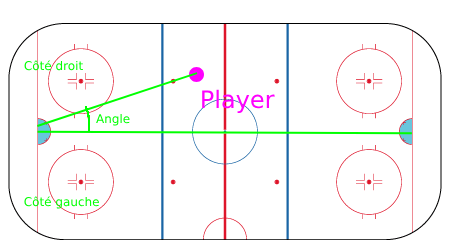
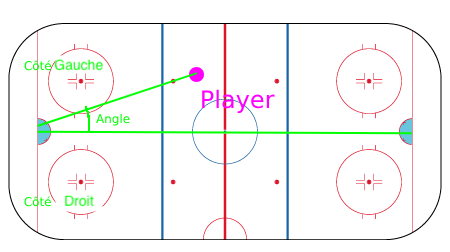
chore: add notes

Changed region(s): [[0.0933, 0.2222, 0.2489, 0.2778], [0.1244, 0.7778, 0.2489, 0.8333]]

diff --git a/NOTES-PART-2.md b/NOTES-PART-2.md
@@ -9,6 +9,16 @@
 - Est un but (0 ou 1) : Fait (colonne `is_goal`)
 - Filet vide : Fait (colonne `is_empty_net`)
 
+#### Correction goal_angle
+
+Correction de la feature `goal_angle` from -180 (left) to 180 (right).
+Les valeurs negatives correspondent à un angle à gauche du point de vue du gardien de but.
+Les valeurs positives correspondent à un angle à droite du point de vue du gardien de but.
+La valeur 0 correspond à un tir en face du gardien de but.
+Les valeurs plus grandes que 90 ou plus petites que -90 correspondent à un angle derrière le gardien de but.
+
+![player_to_goal.png](player_to_goal.png)
+
 ### Split des données
 
 J'ai ajouté une fonction `load_train_test_dataframes` pour séparer les donnes en train et test sets.
@@ -16,3 +26,4 @@ Cette methode retourne deux dataframes :
 
 - train: saisons 2016, 2017, 2018 et 2019
 - test: saison 2020, sans la colonne `is_goal`
+
